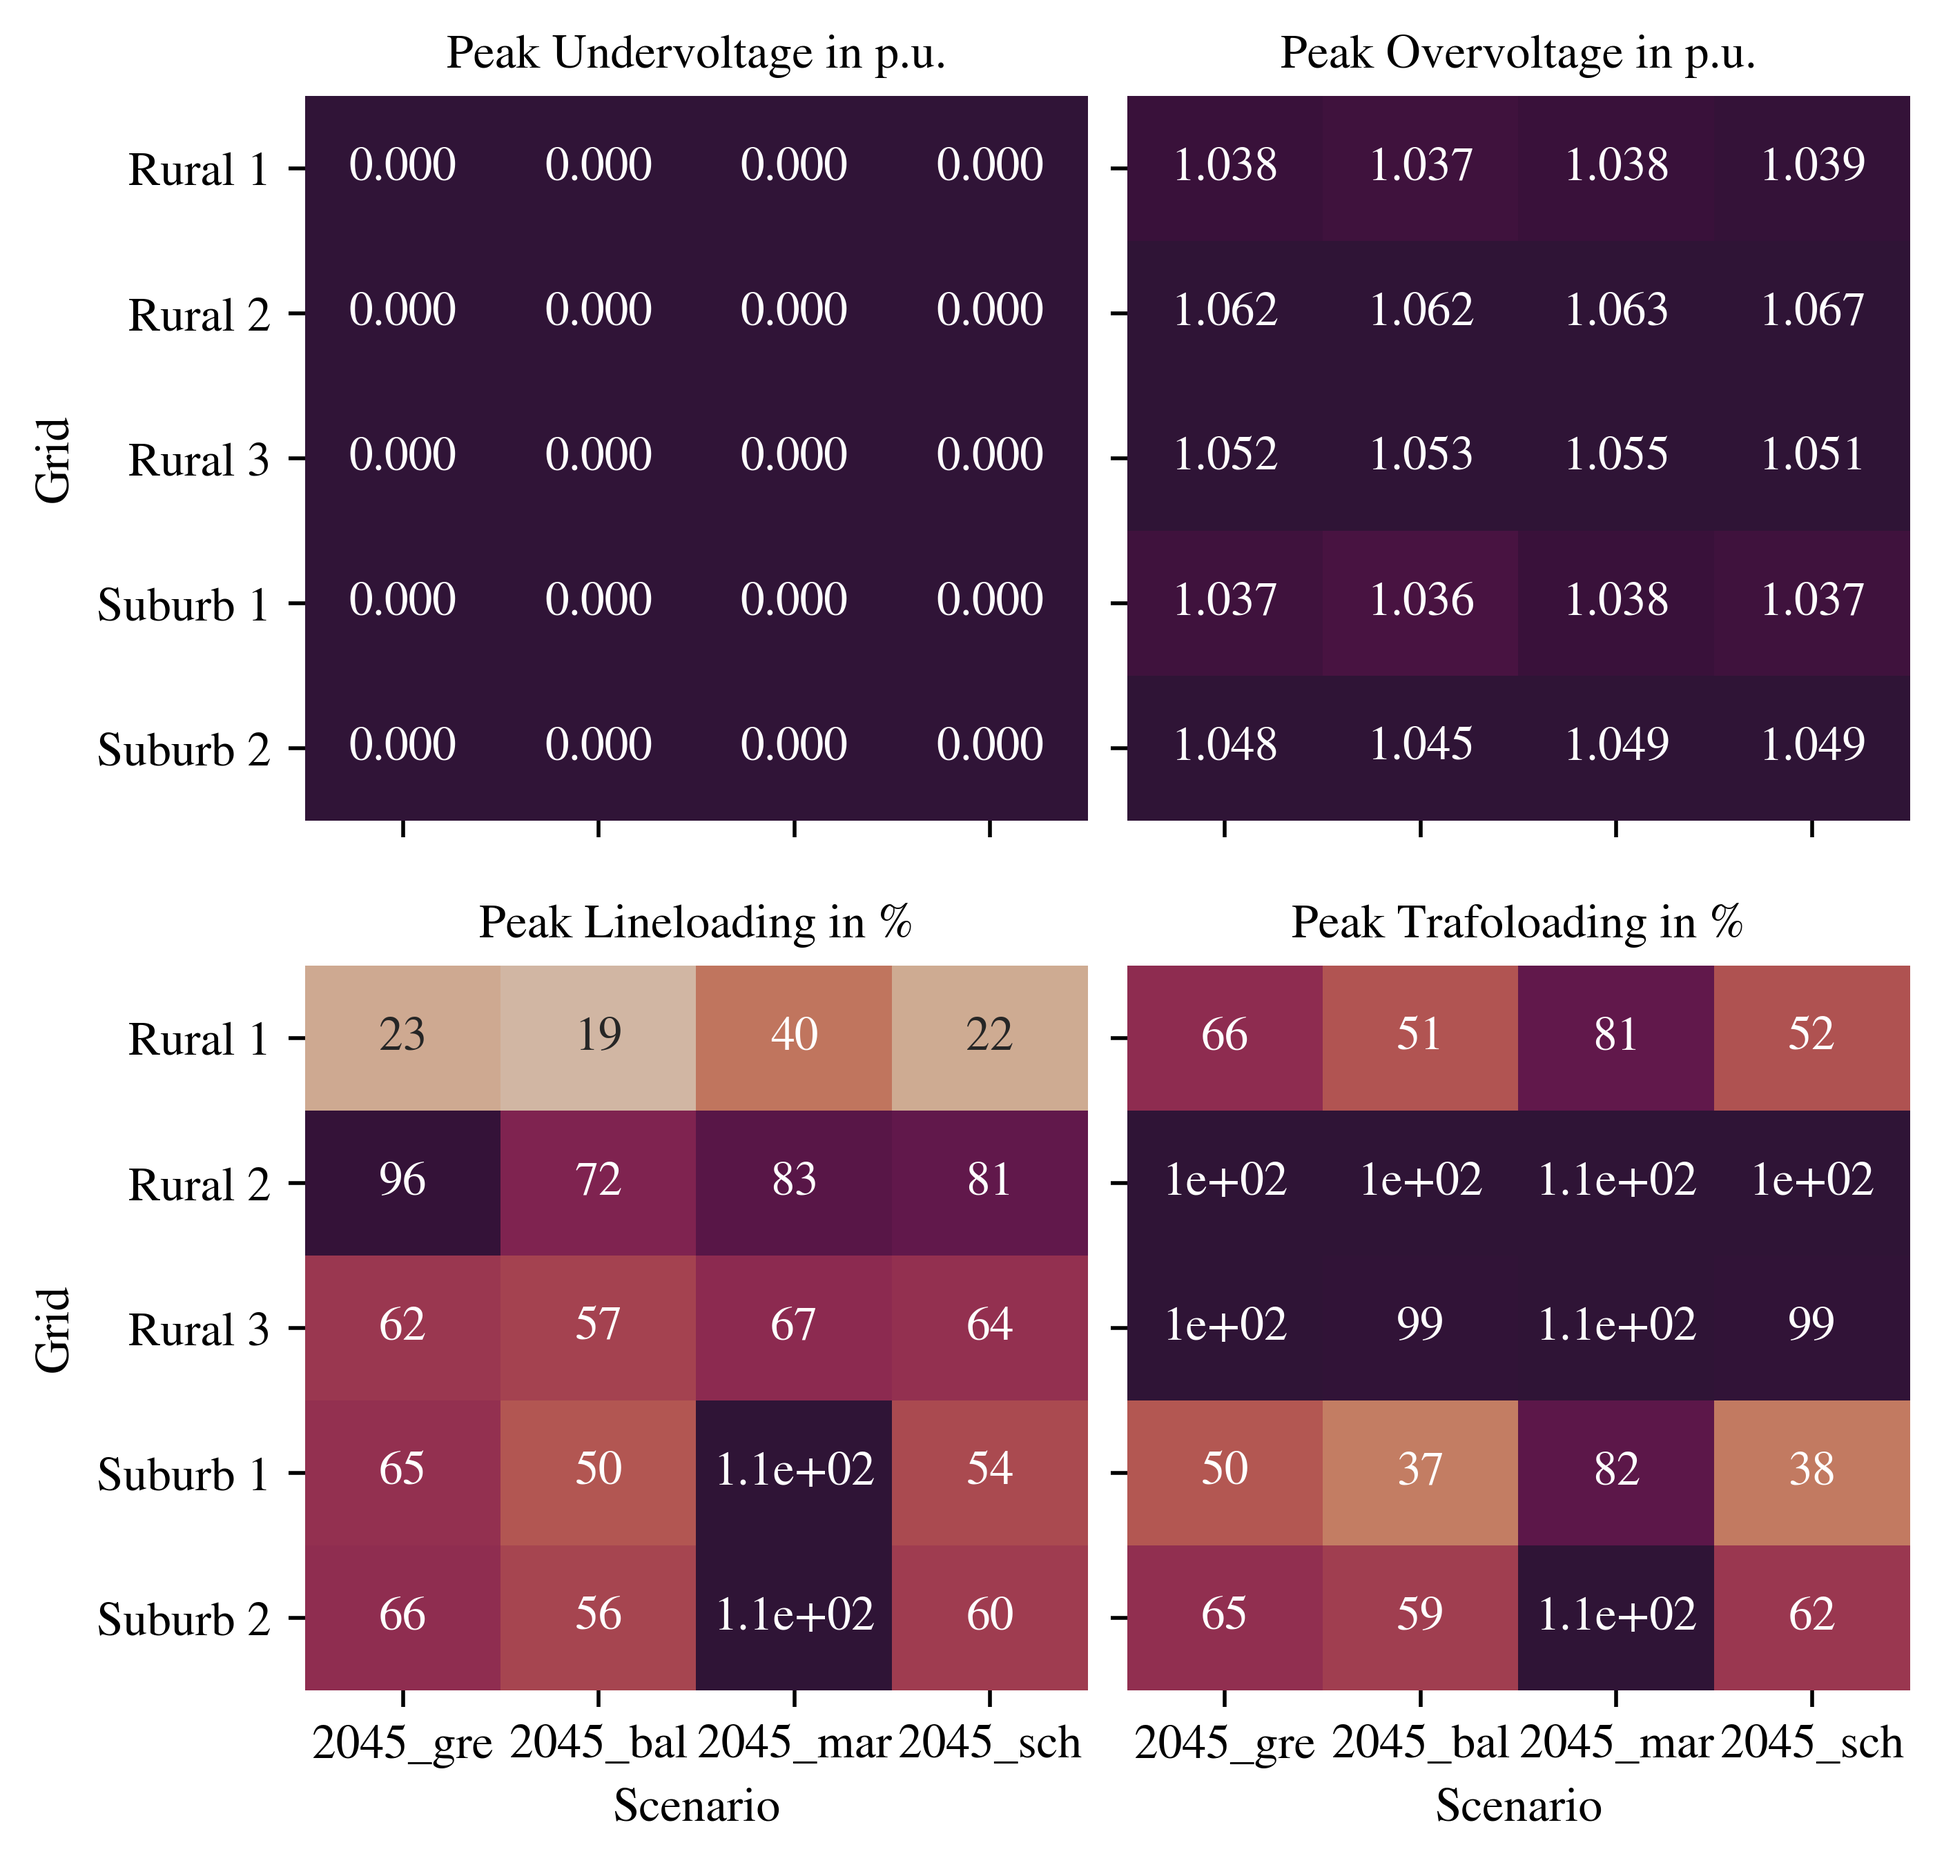
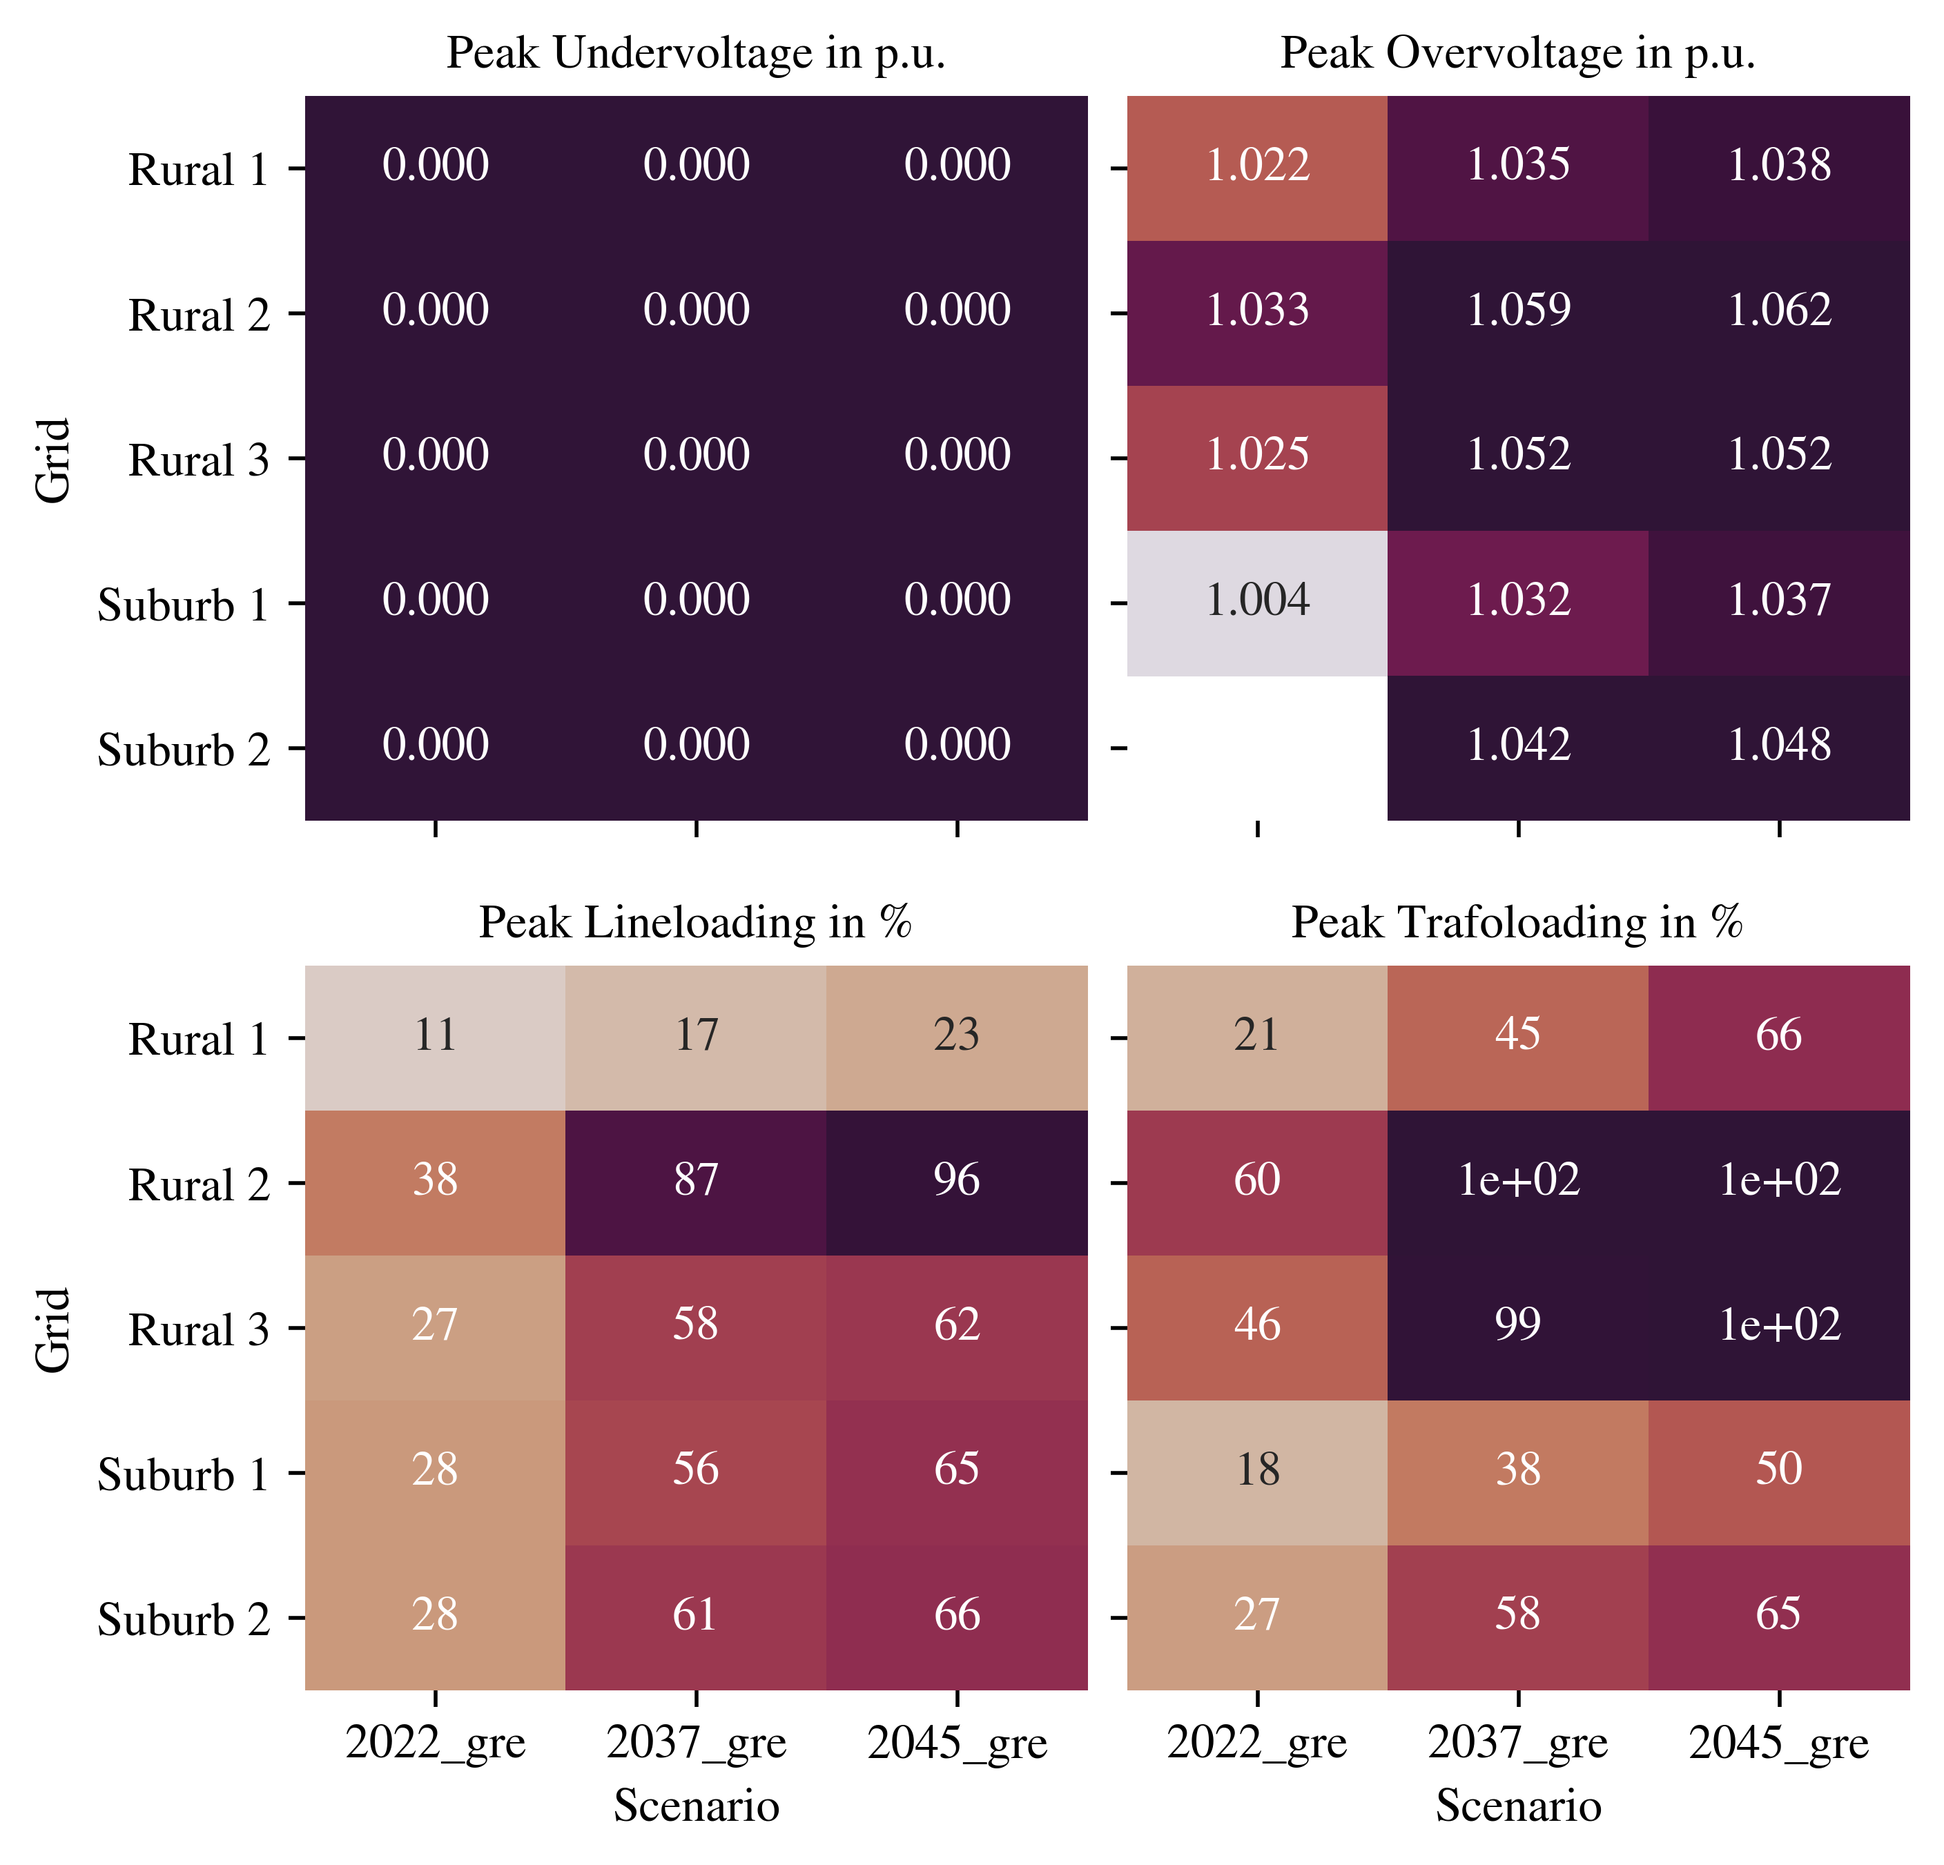
Add img

diff --git a/src/main_EVA.py b/src/main_EVA.py
@@ -152,7 +152,7 @@ evaluation.plot_heatmap_grid_issus(eva, net_name, scenarios, x_ticklabels, n, sa
 '''
 
 # --- Componentloading mean, peak (Scenario - Grid) --- #
-#'''
+'''
 #scenarios = ['1000000', '2001110', '3100010', '4101110', '6131110', '7103310', '8133310']
 #scenarios = ['1000000', '2001110', '3100010', '4101110']
 #scenarios = ['4101110', '6111110', '6121110', '6131110', '6141110', '6151110']
@@ -164,21 +164,27 @@ eva = load_scenario_data(scenarios)
 #evaluation.plot_heatmap_componentloading_mean_peak(eva, net_name, columns_scenarios = ['4101110', '6131110', '7103310', '8133310'], x_ticklabels = ['4', '5', '6', '7'], save_fig_dir=save_fig_dir+'1_')
 #evaluation.plot_heatmap_componentloading_mean_peak(eva, net_name, columns_scenarios = ['A111410', 'A111510', 'A111610', 'A131710'], x_ticklabels = ['2022_gre', '2022_bal', '2022_mar', '2022_sch'], save_fig_dir=save_fig_dir+'A45_')
 #evaluation.plot_heatmap_componentloading_mean_peak(eva, net_name, columns_scenarios = ['B111410', 'B111510', 'B111610', 'B131710'], x_ticklabels = ['2037_gre', '2037_bal', '2037_mar', '2037_sch'], save_fig_dir=save_fig_dir+'B45_')
-evaluation.plot_heatmap_componentloading_mean_peak(eva, net_name, columns_scenarios = ['C111410', 'C111510', 'C111610', 'C131710'], x_ticklabels = ['2045_gre', '2045_bal', '2045_mar', '2045_sch'], save_fig_dir=save_fig_dir+'C45_')
-#'''
+#evaluation.plot_heatmap_componentloading_mean_peak(eva, net_name, columns_scenarios = ['C111410', 'C111510', 'C111610', 'C131710'], x_ticklabels = ['2045_gre', '2045_bal', '2045_mar', '2045_sch'], save_fig_dir=save_fig_dir+'C45_')
+
+evaluation.plot_heatmap_componentloading_mean_peak(eva, net_name, columns_scenarios = ['A111410', 'B111410', 'C111410'], x_ticklabels = ['2022', '2037', '2045'], save_fig_dir=save_fig_dir+'100_greedy')
+'''
 
 # --- Curtailment: PV-Power and Load (Scenario - Grid) --- #
 '''
 #scenarios = ['A111410', 'B111410','C111410', 'A111510', 'B111510','C111510', 'A111610', 'B111610','C111610', 'A111710', 'B111710','C111710']
 scenarios = ['A111410', 'B111410','C111410', 'A111510', 'B111510','C111510', 'A111610', 'B111610','C111610', 'A131710', 'B131710','C131710']
 eva = load_scenario_data(scenarios)
-evaluation.plot_heatmap_curtailed_power(eva, net_name, columns_scenarios = ['A111410', 'B111410','C111410'], x_ticklabels = ['2022_gre', '2037_gre', '2045_gre'], save_fig_dir=save_fig_dir+'4')
-evaluation.plot_heatmap_curtailed_power(eva, net_name, columns_scenarios = ['A111510', 'B111510','C111510'], x_ticklabels = ['2022_bal', '2037_bal', '2045_bal'], save_fig_dir=save_fig_dir+'5')
-evaluation.plot_heatmap_curtailed_power(eva, net_name, columns_scenarios = ['A111610', 'B111610','C111610'], x_ticklabels = ['2022_mar', '2037_mar', '2045_mar'], save_fig_dir=save_fig_dir+'6')
-evaluation.plot_heatmap_curtailed_power(eva, net_name, columns_scenarios = ['A131710', 'B131710','C131710'], x_ticklabels = ['2022_sch', '2037_sch', '2045_sch'], save_fig_dir=save_fig_dir+'7')
-evaluation.plot_heatmap_curtailed_power(eva, net_name, columns_scenarios = ['A111410', 'A111510', 'A111610', 'A131710'], x_ticklabels = ['2022_gre', '2022_bal', '2022_mar', '2022_sch'], save_fig_dir=save_fig_dir+'A')
-evaluation.plot_heatmap_curtailed_power(eva, net_name, columns_scenarios = ['B111410', 'B111510', 'B111610', 'B131710'], x_ticklabels = ['2037_gre', '2037_bal', '2037_mar', '2037_sch'], save_fig_dir=save_fig_dir+'B')
-evaluation.plot_heatmap_curtailed_power(eva, net_name, columns_scenarios = ['C111410', 'C111510', 'C111610', 'C131710'], x_ticklabels = ['2045_gre', '2045_bal', '2045_mar', '2045_sch'], save_fig_dir=save_fig_dir+'C')
+evaluation.plot_heatmap_curtailed_power(eva, net_name, columns_scenarios = ['A111410', 'B111410','C111410'], x_ticklabels = ['2022', '2037', '2045'], save_fig_dir=save_fig_dir+'200_greedy_')
+#evaluation.plot_heatmap_curtailed_power(eva, net_name, columns_scenarios = ['A111410', 'B111410','C111410'], x_ticklabels = ['2022_gre', '2037_gre', '2045_gre'], save_fig_dir=save_fig_dir+'4')
+#evaluation.plot_heatmap_curtailed_power(eva, net_name, columns_scenarios = ['A111510', 'B111510','C111510'], x_ticklabels = ['2022_bal', '2037_bal', '2045_bal'], save_fig_dir=save_fig_dir+'5')
+#evaluation.plot_heatmap_curtailed_power(eva, net_name, columns_scenarios = ['A111610', 'B111610','C111610'], x_ticklabels = ['2022_mar', '2037_mar', '2045_mar'], save_fig_dir=save_fig_dir+'6')
+#evaluation.plot_heatmap_curtailed_power(eva, net_name, columns_scenarios = ['A131710', 'B131710','C131710'], x_ticklabels = ['2022_sch', '2037_sch', '2045_sch'], save_fig_dir=save_fig_dir+'7')
+#evaluation.plot_heatmap_curtailed_power(eva, net_name, columns_scenarios = ['A111410', 'A111510', 'A111610', 'A131710'], x_ticklabels = ['2022_gre', '2022_bal', '2022_mar', '2022_sch'], save_fig_dir=save_fig_dir+'A')
+#evaluation.plot_heatmap_curtailed_power(eva, net_name, columns_scenarios = ['B111410', 'B111510', 'B111610', 'B131710'], x_ticklabels = ['2037_gre', '2037_bal', '2037_mar', '2037_sch'], save_fig_dir=save_fig_dir+'B')
+#evaluation.plot_heatmap_curtailed_power(eva, net_name, columns_scenarios = ['C111410', 'C111510', 'C111610', 'C131710'], x_ticklabels = ['2045_gre', '2045_bal', '2045_mar', '2045_sch'], save_fig_dir=save_fig_dir+'C')
+evaluation.plot_heatmap_curtailed_power(eva, net_name, columns_scenarios = ['B111410', 'B111510', 'B111610', 'B131710'], x_ticklabels = ['greedy', 'balanced', 'marked', 'residual'], save_fig_dir=save_fig_dir+'300_B_2037_')
+evaluation.plot_heatmap_curtailed_power(eva, net_name, columns_scenarios = ['C111410', 'C111510', 'C111610', 'C131710'], x_ticklabels = ['greedy', 'balanced', 'marked', 'residual'], save_fig_dir=save_fig_dir+'300_C_2045_')
+
 '''
 
 # --- Self-Sufficiancy and PV Consumption --- #
@@ -237,16 +243,16 @@ evaluation.plot_bar_chart_percent(eva, scenarios=scenarios, seasons = seasons, s
 #################################
 ########## Load curves ##########
 #################################
-'''
+#'''
 scenario = ['C111410','C111510','C111610','C131710']
 seasons = ['spring','summer','autumn','winter']
 eva = load_scenario_data(scenario, seasons=seasons)
-evaluation.plot_load_curve(eva, scenario=scenario, seasons = seasons, season='spring', save_fig_dir=save_fig_dir)
-evaluation.plot_load_curve(eva, scenario=scenario, seasons = seasons, season='summer', save_fig_dir=save_fig_dir)
-evaluation.plot_load_curve(eva, scenario=scenario, seasons = seasons, season='autumn', save_fig_dir=save_fig_dir)
-evaluation.plot_load_curve(eva, scenario=scenario, seasons = seasons, season='winter', save_fig_dir=save_fig_dir)
-#evaluation.plot_load_curve(eva, scenario=scenario, seasons = seasons, season=None, save_fig_dir=save_fig_dir)
-'''
+evaluation.plot_load_curve(eva, scenario=scenario, seasons = seasons, season='spring', save_fig_dir=save_fig_dir+'400_')
+evaluation.plot_load_curve(eva, scenario=scenario, seasons = seasons, season='summer', save_fig_dir=save_fig_dir+'400_')
+evaluation.plot_load_curve(eva, scenario=scenario, seasons = seasons, season='autumn', save_fig_dir=save_fig_dir+'400_')
+evaluation.plot_load_curve(eva, scenario=scenario, seasons = seasons, season='winter', save_fig_dir=save_fig_dir+'400_')
+#evaluation.plot_load_curve(eva, scenario=scenario, seasons = seasons, season=None, save_fig_dir=save_fig_dir+'400_')
+#'''
 
 
 #################################

diff --git a/src/tools/evaluation/Evaluation.py b/src/tools/evaluation/Evaluation.py
@@ -1548,8 +1548,8 @@ def plot_heatmap_curtailed_power(eva, net_name, columns_scenarios, x_ticklabels,
   ax[1].set_xticklabels(x_ticklabels)
   ax[1].set_yticklabels(y_ticklabels)
   if lan == 'EN':
-    ax[0].set(xlabel='Scenario', ylabel='Grid')
-    ax[1].set(xlabel='Scenario', ylabel='')
+    ax[0].set(xlabel='Charging strategy', ylabel='Grid')
+    ax[1].set(xlabel='Charging strategy', ylabel='')
     ax[0].set_title('Curtailed load energy in %')
     ax[1].set_title('Curtailed PV energy in %')
   elif lan == 'DE':
@@ -2268,7 +2268,7 @@ def plot_load_curve(eva, scenario, seasons, season=None, save_fig_dir=None):
   #sys.exit(0)
 
   # Plot the load_duration curve (Load vs Percentage of time)
-  plt.figure(figsize=(14, 6)) 
+  fig = plt.figure(figsize=(14, 6)) 
   p = sns.lineplot(x = "percentage", y = "0", data = df4)
   p = sns.lineplot(x = "percentage", y = "0", data = df5)
   p = sns.lineplot(x = "percentage", y = "0", data = df6)
@@ -2283,15 +2283,60 @@ def plot_load_curve(eva, scenario, seasons, season=None, save_fig_dir=None):
   p.set_ylabel("Transformerloading in %")
   plt.legend(['greedy', 'balanced', 'market', 'res'])
   plt.grid()
+
+  ax_zoom_in1 = fig.add_axes([.6, .55, .15, .3])
+  p = sns.lineplot(x = "percentage", y = "0", data = df4)
+  p = sns.lineplot(x = "percentage", y = "0", data = df5)
+  p = sns.lineplot(x = "percentage", y = "0", data = df6)
+  p = sns.lineplot(x = "percentage", y = "0", data = df7)
+  plt.ylim(-101, 0)
+  plt.xlim(90, 100)
+  p.set_xlabel("")
+  p.set_ylabel("")
+  plt.grid()
+
+  ax_zoom_in2 = fig.add_axes([.15, .15, .15, .35])
+  p = sns.lineplot(x = "percentage", y = "0", data = df4)
+  p = sns.lineplot(x = "percentage", y = "0", data = df5)
+  p = sns.lineplot(x = "percentage", y = "0", data = df6)
+  p = sns.lineplot(x = "percentage", y = "0", data = df7)
+  plt.ylim(20, 101)
+  plt.xlim(0, 10)
+  p.set_xlabel("")
+  p.set_ylabel("")
+  plt.grid()
+
+
   if season == None:
     plt.savefig(save_fig_dir+'load_duration_curve_'+'4weeks'+'.png', bbox_inches='tight', dpi=dpi)
   else:
     plt.savefig(save_fig_dir+'load_duration_curve_'+str(season)+'.png', bbox_inches='tight', dpi=dpi)
   #plt.show()
+'''
+  # subplot
+  fig, ax = plt.subplots(1, 2, figsize=(14, 6))
+  for i in [0,1]:
+    p = sns.lineplot(ax=ax[i], x = "percentage", y = "0", data = df4)
+    p = sns.lineplot(ax=ax[i], x = "percentage", y = "0", data = df5)
+    p = sns.lineplot(ax=ax[i], x = "percentage", y = "0", data = df6)
+    p = sns.lineplot(ax=ax[i], x = "percentage", y = "0", data = df7)
+    ax[0].set(xlim=(0, 10), ylim=(-101, 101))
+    ax[1].set(xlim=(90, 100), ylim=(-101, 101))
+    if season == None:
+      ax[i].set_title("Load-Duration Curve (all seasons)")
+    else:
+      ax[i].set_title("Load-Duration Curve ("+str(season)+")")
+    ax[i].set_xlabel("Time in %")
+    ax[i].set_ylabel("Transformerloading in %")
+    ax[i].legend(['greedy', 'balanced', 'market', 'res'])
+    ax[i].grid()
 
-
-
-
+  if season == None:
+    plt.savefig(save_fig_dir+'load_duration_curve_'+'4weeks'+'_subplot.png', bbox_inches='tight', dpi=dpi)
+  else:
+    plt.savefig(save_fig_dir+'load_duration_curve_'+str(season)+'_subplot.png', bbox_inches='tight', dpi=dpi)
+  #plt.show()
+'''
 
 
 
